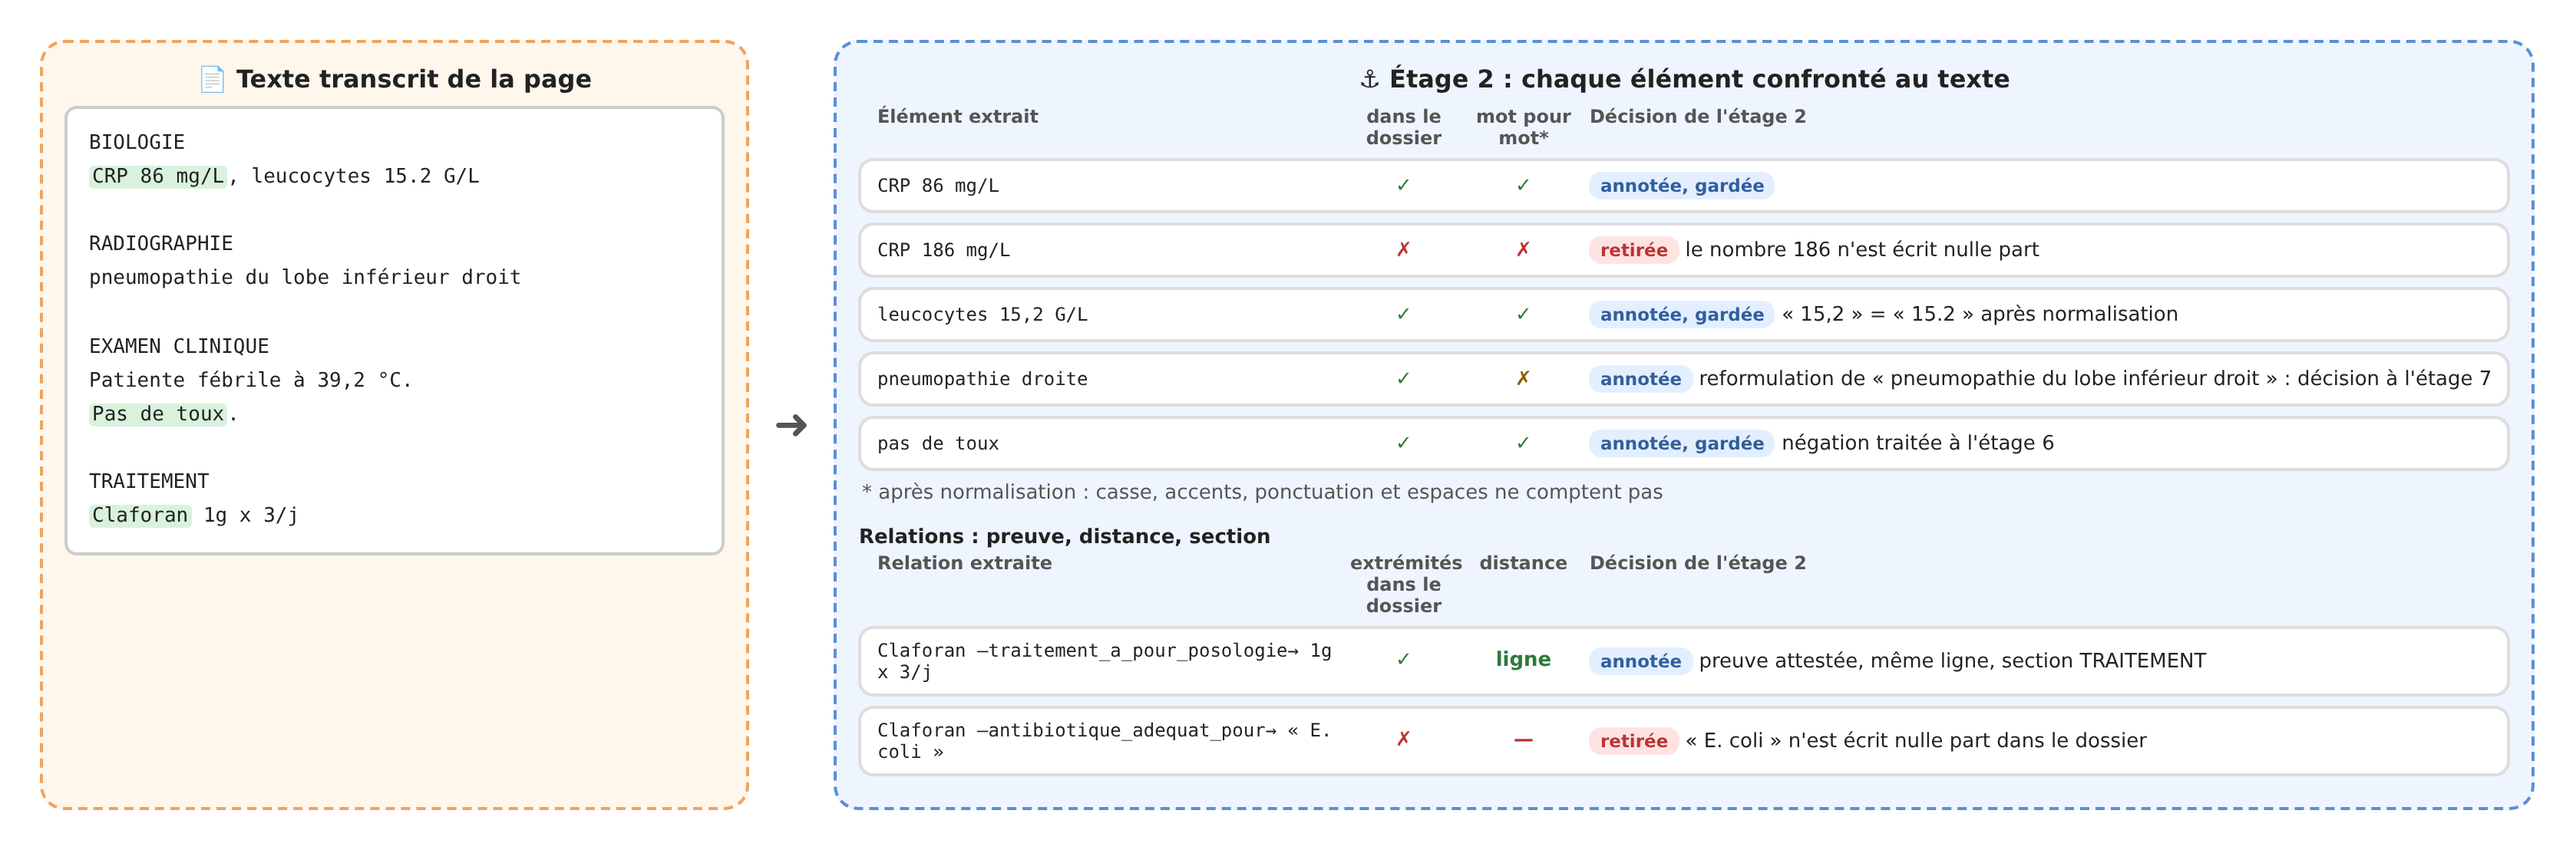
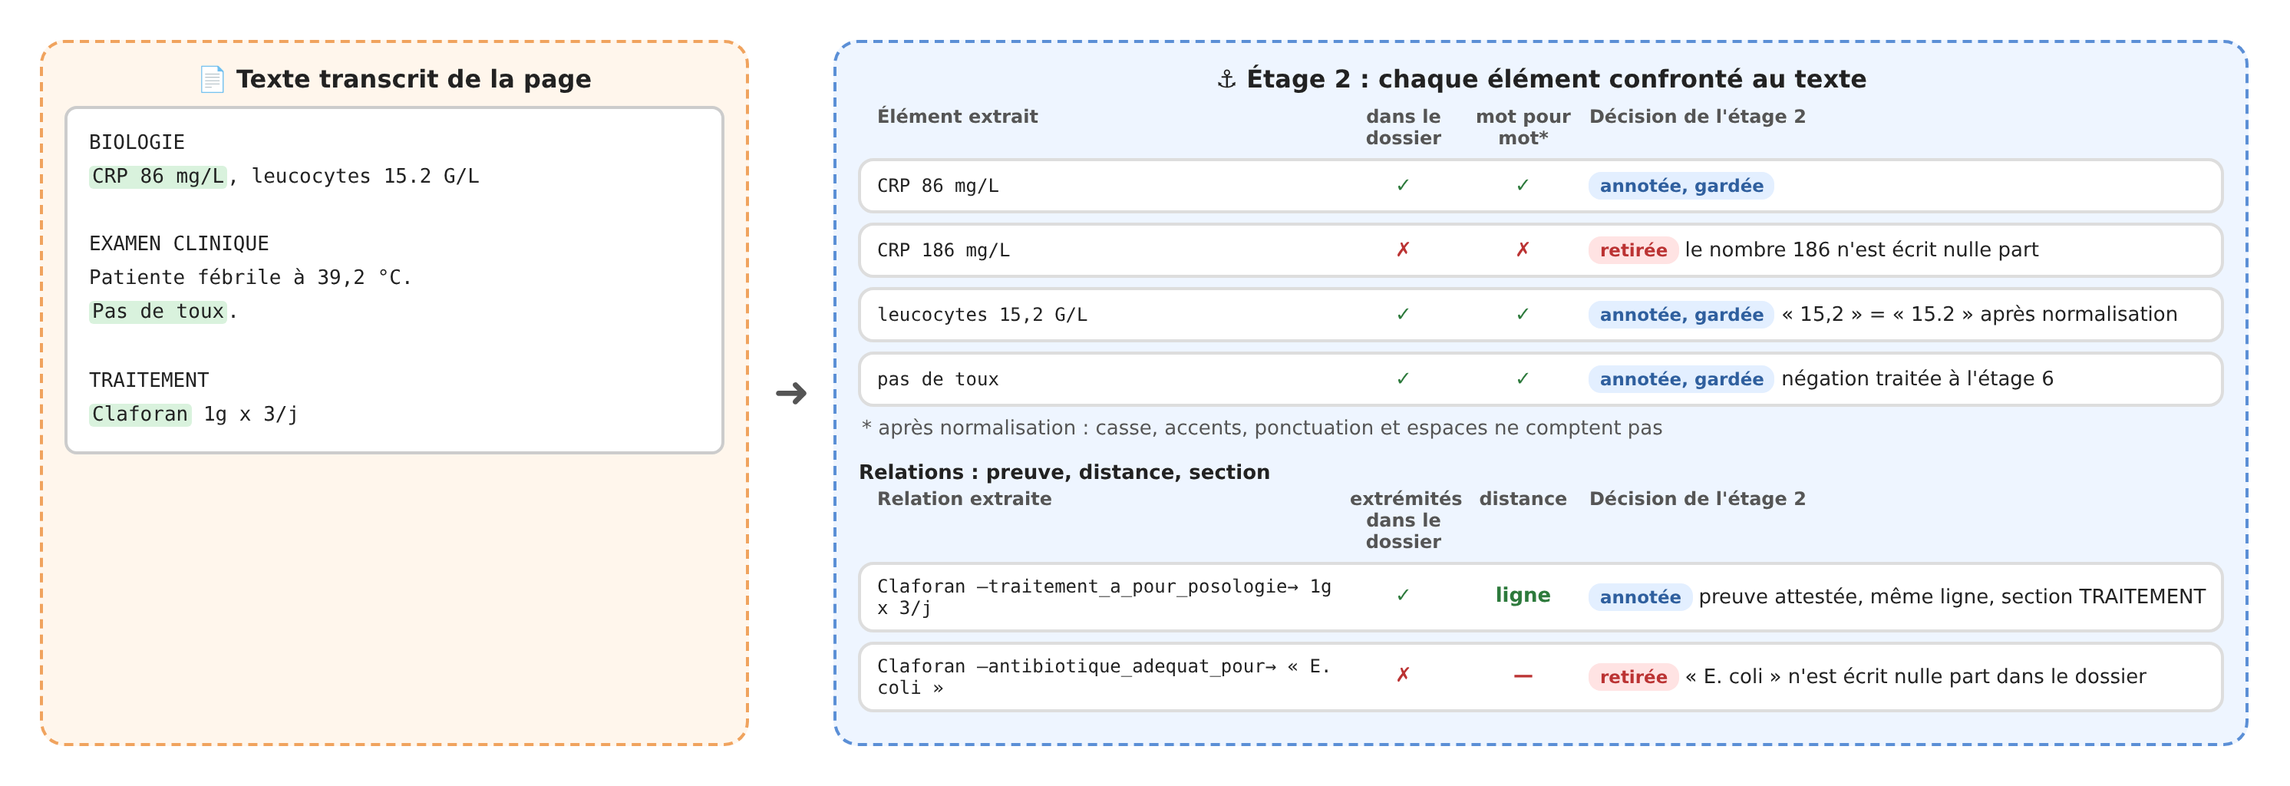
Chapitre 5 : exemple de l'étage 2 aligné sur la figure d'ancrage (sans reformulation)
Claude-Session: https://claude.ai/code/session_01U1N2aa47apfcVip95LQDuG

Changed region(s): [[0.0, 0.0312, 0.9973, 0.9688], [0.0312, 0.9375, 0.3117, 0.9688]]

diff --git a/memoire/figures_sources/ancrage.html b/memoire/figures_sources/ancrage.html
@@ -11,14 +11,13 @@
 .a{font-size:28px;color:#555;align-self:center}
 </style></head><body><div id="root">
 <div class="box orange"><div class="t">📄 Texte transcrit de la page</div>
-<div class="page">BIOLOGIE<br><span class="hl">CRP 86 mg/L</span>, leucocytes 15.2 G/L<br><br>RADIOGRAPHIE<br>pneumopathie du lobe inférieur droit<br><br>EXAMEN CLINIQUE<br>Patiente fébrile à 39,2 °C.<br><span class="hl">Pas de toux</span>.<br><br>TRAITEMENT<br><span class="hl">Claforan</span> 1g x 3/j</div></div>
+<div class="page">BIOLOGIE<br><span class="hl">CRP 86 mg/L</span>, leucocytes 15.2 G/L<br><br>EXAMEN CLINIQUE<br>Patiente fébrile à 39,2 °C.<br><span class="hl">Pas de toux</span>.<br><br>TRAITEMENT<br><span class="hl">Claforan</span> 1g x 3/j</div></div>
 <div class="a">➜</div>
 <div class="box blue"><div class="t">⚓ Étage 2 : chaque élément confronté au texte</div>
 <div class="h"><div>Élément extrait</div><div style="text-align:center">dans le dossier</div><div style="text-align:center">mot pour mot*</div><div>Décision de l'étage 2</div></div>
 <div class="it"><div class="m">CRP 86 mg/L</div><div class="ok">✓</div><div class="ok">✓</div><div><span class="pill" style="background:#e3efff;color:#2f5f9e">annotée, gardée</span></div></div>
 <div class="it"><div class="m">CRP 186 mg/L</div><div class="ko">✗</div><div class="ko">✗</div><div><span class="pill" style="background:#ffe3e3;color:#b33">retirée</span> le nombre 186 n'est écrit nulle part</div></div>
 <div class="it"><div class="m">leucocytes 15,2 G/L</div><div class="ok">✓</div><div class="ok">✓</div><div><span class="pill" style="background:#e3efff;color:#2f5f9e">annotée, gardée</span> « 15,2 » = « 15.2 » après normalisation</div></div>
-<div class="it"><div class="m">pneumopathie droite</div><div class="ok">✓</div><div class="mid">✗</div><div><span class="pill" style="background:#e3efff;color:#2f5f9e">annotée</span> reformulation de « pneumopathie du lobe inférieur droit » : décision à l'étage 7</div></div>
 <div class="it"><div class="m">pas de toux</div><div class="ok">✓</div><div class="ok">✓</div><div><span class="pill" style="background:#e3efff;color:#2f5f9e">annotée, gardée</span> négation traitée à l'étage 6</div></div>
 <div class="small" style="color:#555;margin:4px 2px">* après normalisation : casse, accents, ponctuation et espaces ne comptent pas</div>
 <div style="font-weight:bold;font-size:13px;margin:12px 0 2px">Relations : preuve, distance, section</div>

diff --git a/memoire/chapitre_trace.tex b/memoire/chapitre_trace.tex
@@ -99,7 +99,7 @@ L'étage ne retire que ce que le document rend impossible : une entité absente 
 \caption{Étage~2 : confrontation des entités et des relations au texte de la page (exemple construit)}\label{fig:c5-ancrage}
 \end{figure}
 
-\paragraph{Exemple.} Dans la figure~\ref{fig:c5-ancrage}, une entité \og CRP 186 mg/L \fg{} est retirée si la page indique \og CRP 86 mg/L \fg{} : le nombre 186 n'est écrit nulle part. Une entité \og leucocytes 15,2 G/L \fg{} est gardée si la page écrit \og leucocytes 15.2 G/L \fg{}, car elles ne diffèrent que par la ponctuation. Une entité \og pneumopathie droite \fg{} est attestée si la page indique \og pneumopathie du lobe inférieur droit \fg{}, puisque ses mots figurent dans le dossier, mais elle n'est pas écrite telle quelle : c'est une reformulation du modèle, seulement annotée ici, et c'est l'arbitrage qui décidera. Ces cas sont repris dans l'exemple complet de la section~\ref{sec:c5-exemple}.
+\paragraph{Exemple.} Dans la figure~\ref{fig:c5-ancrage}, l'entité \og CRP 186 mg/L \fg{} est retirée : le nombre 186 n'est écrit nulle part, la page indiquant \og CRP 86 mg/L \fg{}. L'entité \og leucocytes 15,2 G/L \fg{} est gardée : elle ne diffère de la page (\og leucocytes 15.2 G/L \fg{}) que par la ponctuation. L'entité \og pas de toux \fg{} est écrite telle quelle et gardée ; sa négation sera qualifiée à l'étage~6. Pour les relations, celle qui relie Claforan à sa posologie est annotée (preuve attestée, même ligne, section traitement), tandis que celle qui relie Claforan à \og E. coli \fg{} est retirée, car ce germe n'est écrit nulle part dans le dossier.
 
 \paragraph{Justification.} Exiger la présence de tous les nombres répond au risque le plus grave en médecine : un chiffre faux. Ne pas retirer une mention simplement reformulée évite en revanche de perdre des éléments justes, car le modèle développe souvent une abréviation ou accorde un mot. Ce contrôle correspond à la vérification de fidélité à la source décrite dans la littérature~\cite{ji2023survey}, et à ce que RAPTOR+ appelle les extractions non ancrées~\cite{raptorplus2026}.
 
